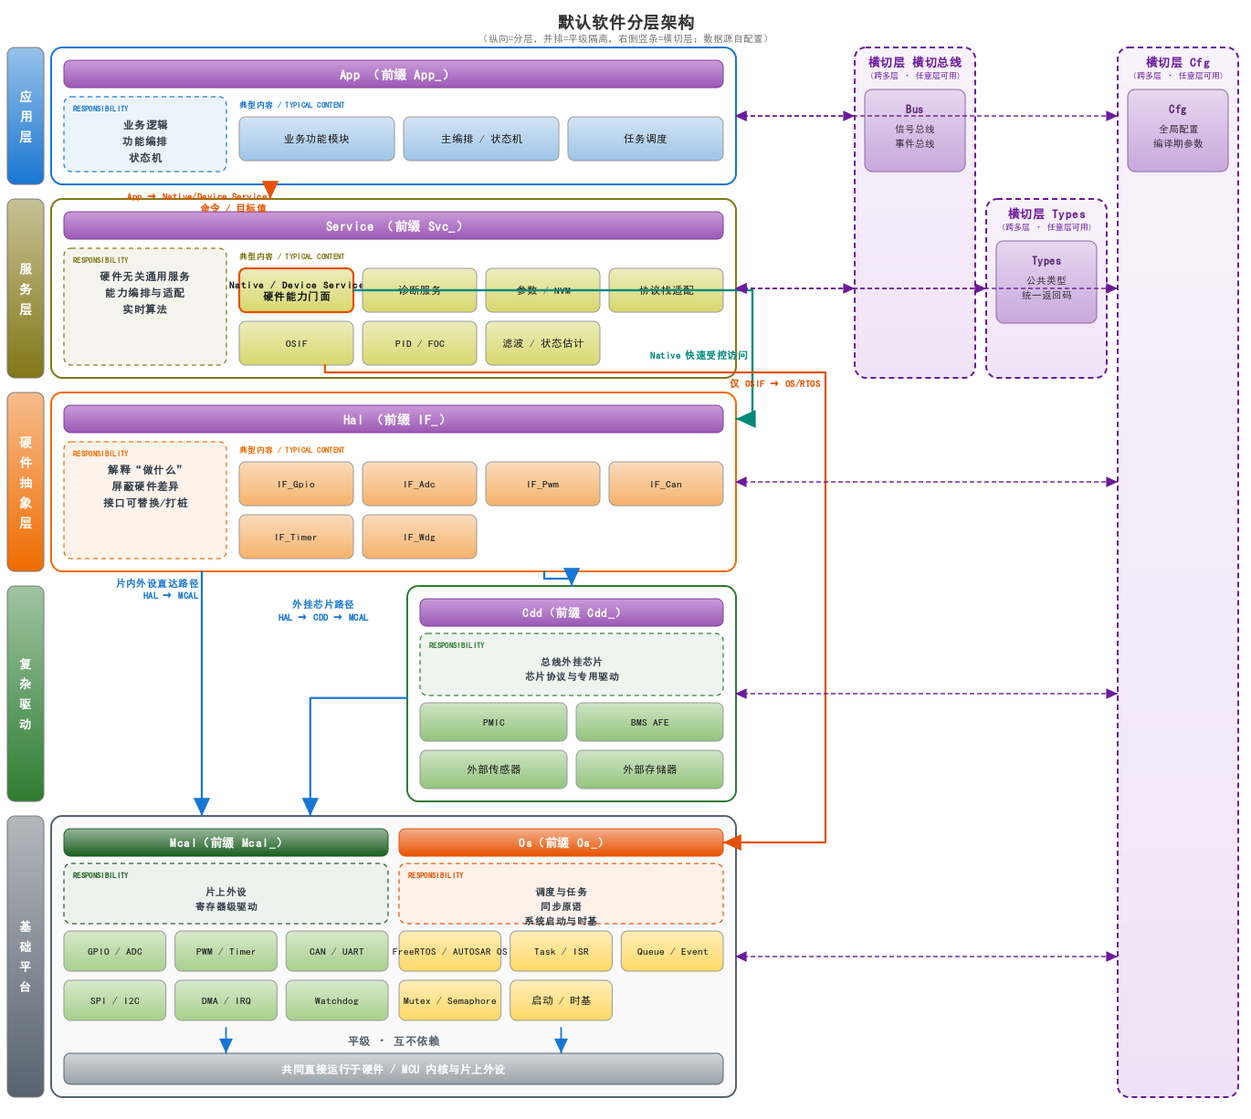
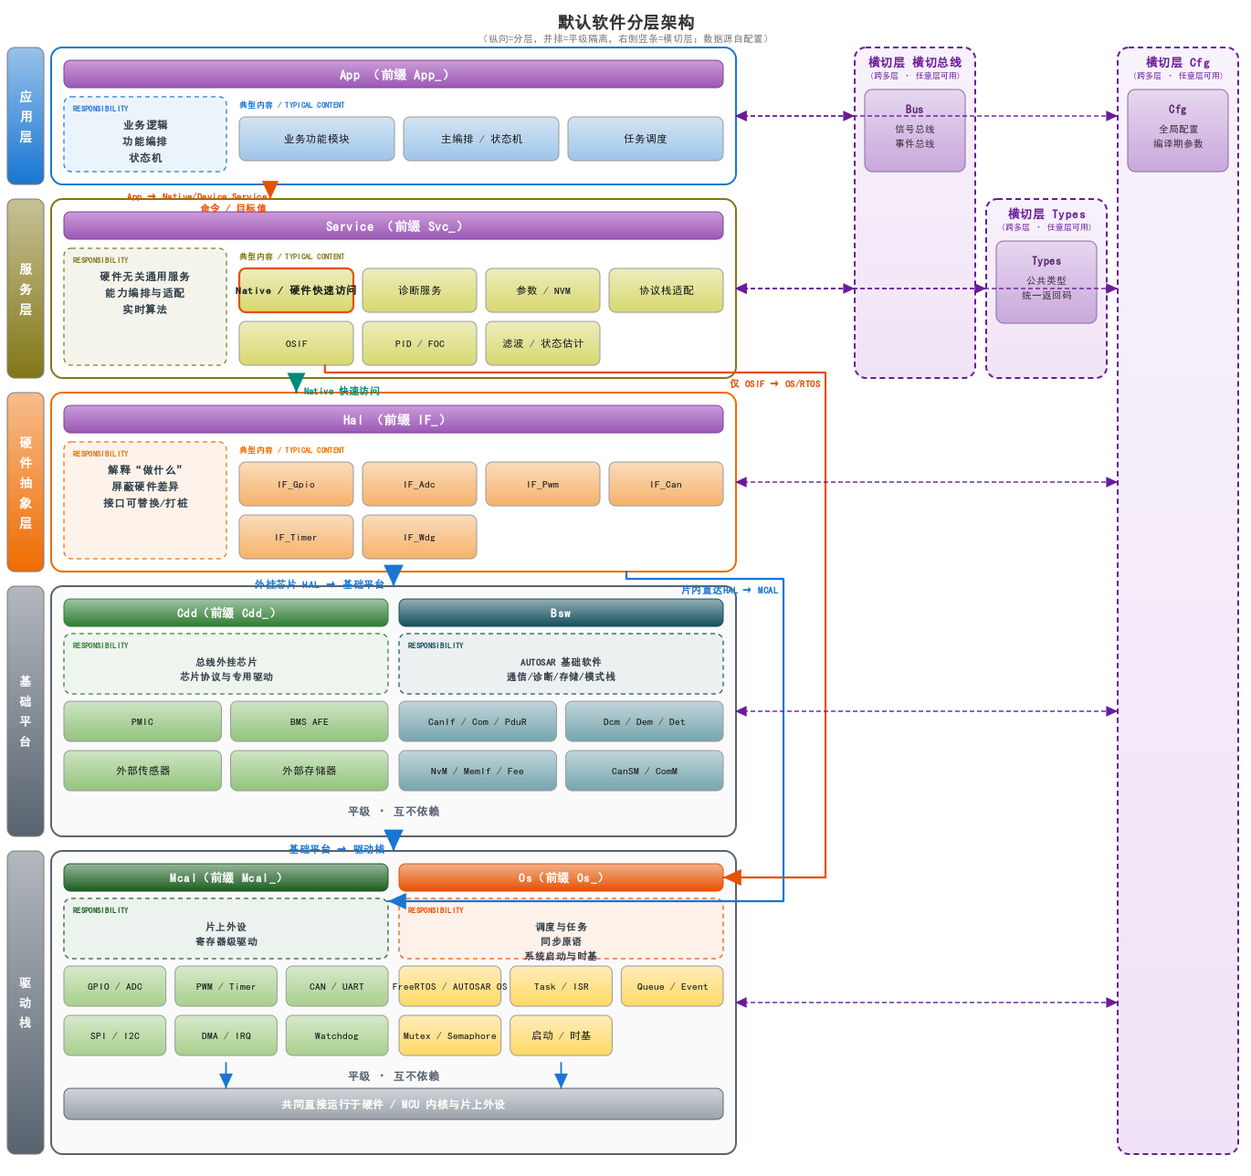
feat: add BSW driver stack as a peer branch to CDD
CDD 与 BSW 同层并列的两条可选驱动栈：新增 HAL→BSW→MCAL 路径，
BSW 与 CDD 平级、互不依赖（peer_groups ["Cdd","Bsw"]）。

- layers.example.json: 加 Bsw 层、peer_group、architecture_edges
  (Hal→Bsw, Bsw→Mcal)、空前缀、path_map/labels/colors；新增
  peer_group_hardware 开关；互换 CDD‖BSW(基础平台)/MCAL‖OS(驱动栈) 带名；
  HAL/驱动栈合并为单箭头(frame/none)，Native 改竖直下指(panel_down)。
- module_spec.example.json: 加 4 个 BSW 示例模块；Native 框改名。
- render_layer_diagram.py: 平级带硬件条按 peer_group_hardware 开关；
  新增 frame/none/panel_down 三种走线。
- 重生成 default-software-layered-model.svg/png。
- docs: layering-rules / SKILL / conformance-checklist / module-templates
  / diagram-guide 全部补 HAL→BSW→MCAL 与 CDD‖BSW 平级隔离。
- tests: test_cdd_bsw_layering.py 断言 PEER/UPWARD/合法路径。

check_layering.py 无需改代码（rank 模型自动收敛 peer group）。
门禁：12 单测通过；示例脚手架 169 文件、跨层+复用 0 违规。

diff --git a/skills/code-generator/scripts/render_layer_diagram.py b/skills/code-generator/scripts/render_layer_diagram.py
@@ -126,6 +126,7 @@ def main():
     cross = layers_cfg.get("cross_cutting", [])
     peer_groups = layers_cfg.get("peer_groups", [])
     peer_group_labels = layers_cfg.get("peer_group_labels", {})
+    peer_group_hardware = layers_cfg.get("peer_group_hardware", {})
     branch_layers = set(layers_cfg.get("branch_layers", []))
     architecture_edges = [tuple(edge) for edge in layers_cfg.get("architecture_edges", [])]
     edge_styles = layers_cfg.get("edge_styles", {})
@@ -195,6 +196,8 @@ def main():
     bounds = {}
     boxes = {}
     module_boxes = {}
+    frame_boxes = {}      # peer_group key -> 外框 box（整条平级带）
+    member_frame = {}     # 层 -> 它所属 peer_group key
     y = 52
 
     def blocks(layer, bx, by, bw, items, cols, base, h=44):
@@ -301,6 +304,8 @@ def main():
     def draw_peer_row(group, idx):
         nonlocal y
         y0 = y
+        group_key = "|".join(group)
+        on_hardware = peer_group_hardware.get(group_key, True)
         count = len(group)
         inner_gap = 12
         inner_x0 = PANEL_X + PAD
@@ -308,16 +313,16 @@ def main():
         module_rows = []
         for L in group:
             items = by_layer.get(L, []) or [{"name": "TBD", "display": "（待补充模块）"}]
-            cols = min(len(items), 3) or 1
+            cols = 2 if len(items) == 4 else (min(len(items), 3) or 1)
             rows = (len(items) + cols - 1) // cols
             module_rows.append((items, cols, rows))
         body_h = max(rows * 44 + (rows - 1) * BLK_GAP for _, _, rows in module_rows)
         resp_h = 66
         hardware_h = 34
-        total = PAD + TITLE_H + 8 + resp_h + 8 + body_h + 12 + 24 + hardware_h + PAD
+        hw_block = (24 + hardware_h) if on_hardware else 0
+        total = PAD + TITLE_H + 8 + resp_h + 8 + body_h + 12 + 24 + hw_block + PAD
 
         s.rect(PANEL_X, y0, PANEL_W, total, 12, "#fafafa", stroke="#58636f", sw=2)
-        group_key = "|".join(group)
         group_label = peer_group_labels.get(group_key, "基础软件平台")
         s.rect(8, y0, 40, total, 8, s.grad("#58636f"), stroke="#7a7a7a", sw=1)
         chars = list(group_label); ch_gap = min(22, (total - 16) / max(len(chars), 1))
@@ -341,16 +346,20 @@ def main():
 
         note_y = y0 + PAD + TITLE_H + 8 + resp_h + 8 + body_h + 12
         s.text(PANEL_X + PANEL_W / 2, note_y + 10, "平级 · 互不依赖", size=12, fill="#58636f", weight="bold")
-        hw_y = note_y + 24
-        s.rect(PANEL_X + PAD, hw_y, PANEL_W - 2 * PAD, hardware_h, 7,
-               s.grad("#9aa3aa"), stroke="#58636f", sw=1)
-        for gi, L in enumerate(group):
-            ix = inner_x0 + gi * (inner_w + inner_gap)
-            arrow_x = ix + inner_w / 2
-            s.polyline([(arrow_x, note_y - 4), (arrow_x, hw_y)],
-                       "#1976D2", marker="arrBlue", sw=1.8)
-        s.text(PANEL_X + PANEL_W / 2, hw_y + hardware_h / 2,
-               "共同直接运行于硬件 / MCU 内核与片上外设", size=12, fill="#ffffff", weight="bold")
+        if on_hardware:
+            hw_y = note_y + 24
+            s.rect(PANEL_X + PAD, hw_y, PANEL_W - 2 * PAD, hardware_h, 7,
+                   s.grad("#9aa3aa"), stroke="#58636f", sw=1)
+            for gi, L in enumerate(group):
+                ix = inner_x0 + gi * (inner_w + inner_gap)
+                arrow_x = ix + inner_w / 2
+                s.polyline([(arrow_x, note_y - 4), (arrow_x, hw_y)],
+                           "#1976D2", marker="arrBlue", sw=1.8)
+            s.text(PANEL_X + PANEL_W / 2, hw_y + hardware_h / 2,
+                   "共同直接运行于硬件 / MCU 内核与片上外设", size=12, fill="#ffffff", weight="bold")
+        frame_boxes[group_key] = (PANEL_X, y0, PANEL_X + PANEL_W, y0 + total)
+        for L in group:
+            member_frame[L] = group_key
         y = y0 + total + 16
 
     consumed_peers = set()
@@ -383,6 +392,19 @@ def main():
         route = cfg.get("route", "direct")
         label = cfg.get("label", "")
 
+        if route == "none":
+            continue  # 该架构边由同组的另一条边代表，图上不重复画
+        if route == "frame":
+            # 单箭头指向整条平级带外框（合并同组多条边），居中竖直
+            src_box = frame_boxes.get(member_frame.get(src), boxes[src])
+            dst_box = frame_boxes.get(member_frame.get(dst), boxes[dst])
+            cx = PANEL_X + PANEL_W / 2
+            s.polyline([(cx, src_box[3]), (cx, dst_box[1])], color, marker=marker, sw=2.6)
+            if label:
+                s.text(cx - 10, src_box[3] + 14, label, size=11, fill=color,
+                       anchor="end", weight="bold")
+            continue
+
         if route == "module_direct":
             start_x = sx0 + (sx1 - sx0) / 2
             target_x = tx0 + (tx1 - tx0) / 2
@@ -392,6 +414,15 @@ def main():
             if label:
                 s.text(start_x + 8, sy1 + 8, label,
                        size=10.5, fill=color, weight="bold")
+        elif route == "panel_down":
+            # 从源模块所在列、源层面板底边竖直向下指向目标层（不绕右侧、不穿同层卡片）
+            msx0, _, msx1, _ = module_boxes.get((src, cfg.get("source_module")), boxes[src])
+            start_x = (msx0 + msx1) / 2
+            src_bottom = boxes[src][3]
+            s.polyline([(start_x, src_bottom), (start_x, ty0)], color, marker=marker, sw=2.4)
+            if label:
+                s.text(start_x + 8, src_bottom + 14, label, size=10.5, fill=color,
+                       anchor="start", weight="bold")
         elif route == "side_direct":
             route_x = MAIN_RIGHT + 18
             start_y = sy0 + (sy1 - sy0) / 2
@@ -402,10 +433,10 @@ def main():
                 s.text(route_x - 6, (start_y + target_y) / 2, label,
                        size=10.5, fill=color, anchor="end", weight="bold")
         elif route == "right":
-            route_x = MAIN_RIGHT + EDGE_GUTTER - 20
+            route_x = MAIN_RIGHT + EDGE_GUTTER - 20 - float(cfg.get("gutter_offset", 0))
             start_x = sx0 + (sx1 - sx0) * float(cfg.get("start_ratio", 0.75))
             start_y = sy1
-            target_y = ty0 + TITLE_H / 2 + PAD
+            target_y = ty0 + TITLE_H / 2 + PAD + float(cfg.get("target_dy", 0))
             points = [(start_x, start_y), (start_x, start_y + 8), (route_x, start_y + 8),
                       (route_x, target_y),
                       (tx1, target_y)]

diff --git a/skills/code-generator/tests/test_cdd_bsw_layering.py b/skills/code-generator/tests/test_cdd_bsw_layering.py
@@ -1,0 +1,72 @@
+import json, os, subprocess, sys, tempfile, unittest
+
+ROOT = os.path.dirname(os.path.dirname(os.path.abspath(__file__)))
+CHECK = os.path.join(ROOT, "scripts", "check_layering.py")
+
+# CDD 与 BSW 同层并列的两条驱动栈：HAL→CDD→MCAL 与 HAL→BSW→MCAL，CDD↔BSW 平级互不依赖。
+LAYERS = {
+    "layers": ["App", "Service", "Hal", "Cdd", "Bsw", "Mcal", "Os"],
+    "peer_groups": [["Cdd", "Bsw"], ["Mcal", "Os"]],
+    "path_map": {
+        "Source/App": "App", "Source/Service": "Service", "Source/Hal": "Hal",
+        "Source/Cdd": "Cdd", "Source/Bsw": "Bsw", "Source/Mcal": "Mcal", "Source/Os": "Os",
+    },
+    "architecture_edges": [
+        ["App", "Service"], ["Service", "Hal"], ["Hal", "Mcal"],
+        ["Hal", "Cdd"], ["Hal", "Bsw"], ["Cdd", "Mcal"], ["Bsw", "Mcal"],
+    ],
+    "file_prefix": {},
+}
+
+
+def write(path, text):
+    os.makedirs(os.path.dirname(path), exist_ok=True)
+    with open(path, "w") as f:
+        f.write(text)
+
+
+class CddBswLayeringTest(unittest.TestCase):
+    def setUp(self):
+        self.d = tempfile.mkdtemp()
+        self.layers = os.path.join(self.d, "layers.json")
+        self.code = os.path.join(self.d, "code")
+        with open(self.layers, "w") as f:
+            json.dump(LAYERS, f)
+        # 各层放一个可被 include 解析的头文件
+        for rel in ("Source/Cdd/Pmic/Cdd_Pmic.h", "Source/Bsw/CanIf/CanIf.h",
+                    "Source/Mcal/Can/Mcal_Can.h", "Source/Hal/If/IF_Can.h"):
+            write(os.path.join(self.code, rel), "#ifndef H\n#define H\n#endif\n")
+
+    def _kinds(self, rel_c, c_body):
+        write(os.path.join(self.code, rel_c), c_body)
+        r = subprocess.run(
+            [sys.executable, CHECK, "--root", self.code, "--layers", self.layers, "--json"],
+            capture_output=True, text=True)
+        return [v["kind"] for v in json.loads(r.stdout)["violations"]], r.returncode
+
+    def test_bsw_including_cdd_is_peer_violation(self):
+        kinds, rc = self._kinds("Source/Bsw/CanIf/CanIf.c", '#include "Cdd_Pmic.h"\n')
+        self.assertIn("PEER", kinds)
+        self.assertEqual(rc, 1)
+
+    def test_cdd_including_bsw_is_peer_violation(self):
+        kinds, _ = self._kinds("Source/Cdd/Pmic/Cdd_Pmic.c", '#include "CanIf.h"\n')
+        self.assertIn("PEER", kinds)
+
+    def test_hal_including_bsw_is_legal(self):
+        kinds, rc = self._kinds("Source/Hal/Impl/IF_Can.c", '#include "CanIf.h"\n')
+        self.assertEqual(kinds, [])
+        self.assertEqual(rc, 0)
+
+    def test_bsw_including_mcal_is_legal(self):
+        kinds, rc = self._kinds("Source/Bsw/CanIf/CanIf.c", '#include "Mcal_Can.h"\n')
+        self.assertEqual(kinds, [])
+        self.assertEqual(rc, 0)
+
+    def test_bsw_including_hal_is_upward_violation(self):
+        kinds, _ = self._kinds("Source/Bsw/CanIf/CanIf.c", '#include "IF_Can.h"\n')
+        self.assertIn("UPWARD", kinds)
+
+
+if __name__ == "__main__":
+    unittest.main()

diff --git a/skills/code-generator/SKILL.md b/skills/code-generator/SKILL.md
@@ -59,11 +59,13 @@ description: >
   再受控调用 HAL；MCU 单进程项目默认使用普通 C 函数调用，不强制 IPC。
 - **OS 路径**：只有 Service 内的 `OSIF → OS/RTOS`。OSIF 封装任务、同步、队列和时基；Native/Device Service 不借此
   绕到 OS，架构图也不得把该依赖画成整个 Service 层指向 OS。
-- **硬件路径**：片内外设走 `HAL → MCAL`；外挂芯片走 `HAL → CDD → MCAL`。CDD 是可选分支，不是所有 HAL 调用的必经层。
+- **硬件路径**：片内外设走 `HAL → MCAL`；外挂芯片走 `HAL → CDD → MCAL`；AUTOSAR 基础软件走 `HAL → BSW → MCAL`。
+  CDD 与 BSW 是**同层并列的两条可选驱动栈**（同一 `peer_groups`、互不依赖），都不是所有 HAL 调用的必经层。
 - **基础平台**：MCAL 与 OS/RTOS 处于同一平级基础平台，二者共同直接运行于 MCU 内核/片上与板级硬件，
   默认 `MCAL ↛ OS`、`OS ↛ MCAL`。
 - **职责归属**：实时算法核（PID/FOC/滤波/状态估计）放 Service；硬件无关接口放 HAL；外挂芯片协议放 CDD；
-  寄存器级片上外设驱动放 MCAL；调度与同步原语放 OS/RTOS。Types、Bus、Cfg 作为横切能力，保持零业务逻辑和零硬件依赖。
+  AUTOSAR 通信/诊断/存储/模式栈放 BSW；寄存器级片上外设驱动放 MCAL；调度与同步原语放 OS/RTOS。
+  Types、Bus、Cfg 作为横切能力，保持零业务逻辑和零硬件依赖。
 - **冲突决策规则**：SAD 明确给出与上述基线不同的分层、职责归属或调用拓扑时，**不得自动采用 SAD，也不得自动忽略
   SAD**。先向用户展示差异摘要，并请用户明确二选一：`采用 SAD 指定架构` 或 `采用 skill 默认架构`。用户未决策前，
   停止生成 `layers.json`、`module_spec.json`、架构图和代码。决定采用 SAD 时，把差异写入项目 `layers.json` 的
@@ -86,7 +88,7 @@ description: >
    明确选择默认方案时采用上述默认架构基线。
    上层只能依赖**相邻下层或 `architecture_edges` 声明的结构边**，不向上依赖、不沿未声明路径跳层。
    默认控制路径是 `App → Native/Device Service → HAL`，OS 能力只经 `OSIF → OS/RTOS`；默认底层拓扑是片内外设 `HAL → MCAL`、外挂芯片
-   `HAL → CDD → MCAL`，CDD 是可选分支而非必经层；MCAL 与 OS/RTOS 默认处于同一基础平台级、共同直接建立在
+   `HAL → CDD → MCAL`、AUTOSAR 基础软件 `HAL → BSW → MCAL`，CDD 与 BSW 是同层并列的两条可选分支而非必经层；MCAL 与 OS/RTOS 默认处于同一基础平台级、共同直接建立在
    硬件之上且互不依赖；同层模块之间高内聚低耦合，靠接口/总线/回调解耦
    （上下层与同层的通信机制——SignalBus/回调/EventBus/接口——按产品场景选，见 `references/layering-rules.md` §4）；硬件相关全部收敛到抽象层
    接口（`.h`）之后，实现（`.c`）可替换、可打桩注入。规则与判定见 `references/layering-rules.md`。
@@ -127,8 +129,8 @@ python3 scripts/discover_inputs.py <项目根目录>
 
 ### 2.5 架构差异检测与用户决策门（有冲突时必须暂停）
 读取 SAD 的分层架构后，先与 `assets/default-software-layered-model.svg` 的默认基线比较，至少检查：
-层清单与层序、App 是否直连 HAL、Native/Device Service 是否存在、OS 是否仅经 OSIF 使用、CDD 是否为可选分支、
-HAL→MCAL / HAL→CDD→MCAL 路径、MCAL 与 OS/RTOS 是否平级隔离、算法与横切能力的归属。
+层清单与层序、App 是否直连 HAL、Native/Device Service 是否存在、OS 是否仅经 OSIF 使用、CDD/BSW 是否为可选分支、
+HAL→MCAL / HAL→CDD→MCAL / HAL→BSW→MCAL 路径、CDD 与 BSW 是否平级隔离、MCAL 与 OS/RTOS 是否平级隔离、算法与横切能力的归属。
 
 - **无架构差异**：记录“与默认基线一致”，继续第 3 步。
 - **SAD 未描述这些架构项**：记录“采用 skill 默认架构”，继续第 3 步。
@@ -157,9 +159,9 @@ HAL→MCAL / HAL→CDD→MCAL 路径、MCAL 与 OS/RTOS 是否平级隔离、算
   `assets/` 下有 `module_spec.example.json` / `layers.example.json` 可参照（**仅示例，按真实 SAD 改写**）。
   若第 2.5 步判定无差异、SAD 未描述架构，或用户明确选择 skill 默认架构，直接以
   `assets/layers.example.json` 和 `assets/module_spec.example.json` 为配置起点：
-  保留 `App → Native/Device Service → HAL`、`OSIF → OS/RTOS`、`HAL → MCAL`、`HAL → CDD → MCAL`；
-  用 `peer_groups:[["Mcal","Os"]]` 声明 MCAL 与 OS/RTOS 平级隔离。`["Service","Os"]` 只是静态层级检查所需的
-  合法结构边，模块依赖中只有 OSIF 可以实际使用该边。
+  保留 `App → Native/Device Service → HAL`、`OSIF → OS/RTOS`、`HAL → MCAL`、`HAL → CDD → MCAL`、`HAL → BSW → MCAL`；
+  用 `peer_groups:[["Cdd","Bsw"],["Mcal","Os"]]` 声明 CDD 与 BSW、MCAL 与 OS/RTOS 各自平级隔离。`["Service","Os"]`
+  只是静态层级检查所需的合法结构边，模块依赖中只有 OSIF 可以实际使用该边。
   若用户明确选择 SAD 指定架构，则按 SAD 生成两份配置，并附带第 2.5 步的架构决策记录；不要混入未获选择的默认拓扑。
 
 ### 3.5 出分层架构图（可视化校验，建议每次做）
@@ -181,7 +183,8 @@ python3 scripts/scaffold_tree.py --spec <module_spec.json> --layers <layers.json
 它为每个模块生成：`<Module>.h`（公开接口 + API 契约注释 + `@implements <需求ID>` 追溯标注 + 头文件保护）、
 `<Module>_Cfg.h`（编译期配置占位）、`<Module>.c`（`#include` 仅含**相邻下层/`architecture_edges` 接口 +
 同层 + 横切层**、函数桩 +
-`/* TBD: ... */` 体）。HAL 实现按设备归属选择 MCAL 或 CDD；CDD 仅用于外挂芯片并依赖 MCAL 总线接口。生成后
+`/* TBD: ... */` 体）。HAL 实现按设备归属选择 MCAL、CDD 或 BSW；CDD 用于外挂芯片、BSW 用于 AUTOSAR 基础软件栈，
+二者各自依赖 MCAL 总线/存储接口且互不依赖。生成后
 **人工/模型补全**头文件契约细节与目录 README，确保骨架可被编译器解析。
 目录布局原则与命名规范见 `references/layering-rules.md` 与 `references/module-templates.md`。
 

diff --git a/skills/code-generator/references/diagram-guide.md b/skills/code-generator/references/diagram-guide.md
@@ -13,16 +13,20 @@
    - 顶部**层标题条**（层名 + `（前缀 xxx_）`，前缀取自 `file_prefix`）；
    - 层内**模块卡片块**（渐变圆角块）；模块若带 `group` 字段则按组画虚线分组框（如 System/Connectivity）。
 
-2. **平级层必须并排**：`peer_groups` 中的不同层位于同一水平带，不能画成上下关系。默认
-   `["Mcal","Os"]` 应并排放入“基础软件平台”区域，底部共同连接 MCU 内核/硬件，并明确标注“平级、互不依赖”。
-   平级层仍保留各自标题和模块边界；图中不得绘制 MCAL 与 OS/RTOS 之间的依赖箭头。
+2. **平级层必须并排**：`peer_groups` 中的不同层位于同一水平带，不能画成上下关系，并明确标注“平级、互不依赖”。默认有两条平级带：
+   - `["Cdd","Bsw"]`：CDD 复杂驱动与 BSW 基础软件栈并排放入“基础平台”带（同层并列的两条可选驱动栈），运行在 MCAL
+     之上，**不画硬件底条**（`layers.json.peer_group_hardware` 该组为 `false`）。
+   - `["Mcal","Os"]`：MCAL 与 OS/RTOS 并排放入“驱动栈”带，底部**画硬件底条**共同连接 MCU 内核/硬件（该组为 `true`）。
+   平级层仍保留各自标题和模块边界；图中不得绘制 CDD↔BSW、MCAL↔OS/RTOS 之间的依赖箭头。
 
 3. **结构边必须可见**：`architecture_edges` 不能只用于代码门禁，架构图也要画出带方向的调用路径。默认模型至少显示：
    - `App → Native/Device Service → HAL`，其中 Native/Device Service 是上层快速、受控访问 HAL 的硬件能力门面；
    - `OSIF → OS/RTOS`，箭头必须从 OSIF 模块卡片发出，不得从整个 Service 层边框发出；
    - 片内外设 `HAL → MCAL`；
-   - 外挂芯片 `HAL → CDD → MCAL`。
-   `branch_layers`（默认 CDD）应缩进为可选分支，避免被误画成所有 HAL 调用的串行必经层。
+   - 外挂芯片 `HAL → CDD → MCAL`、AUTOSAR 基础软件 `HAL → BSW → MCAL`：CDD/BSW 在“基础平台”带里并排，可用一条
+     `HAL → 基础平台带` 与一条 `基础平台带 → 驱动栈带` 的合并箭头表达（`edge_styles` 的 `route:"frame"` 指向整条平级带，
+     同组另一条边用 `route:"none"` 不重复画），避免对 CDD、BSW 各画一条造成杂乱。
+   CDD/BSW 是可选分支，避免被误画成所有 HAL 调用的串行必经层。
 
 4. **横切层必须画成竖条，不占层序**：`layers.json` 的 `cross_cutting`（如 `Bus`/`Types`/`Cfg`）一律画成
    **右侧竖条**，竖向**只跨它的使用者层**，并用虚线箭头连到这些层。**严禁**把横切层塞成一个横向的普通层——

diff --git a/skills/code-generator/references/module-templates.md b/skills/code-generator/references/module-templates.md
@@ -80,7 +80,7 @@ IF_Status_t <Module>_DoSomething(uint16_t arg);
 ** @brief   <Module> 实现。所属层：<层名>。
 */
 #include "<Module>.h"
-/* 仅 #include 相邻下层或 architecture_edges 接口（如 Service→HAL、HAL→MCAL/CDD）、横切层。 */
+/* 仅 #include 相邻下层或 architecture_edges 接口（如 Service→HAL、HAL→MCAL/CDD/BSW）、横切层。 */
 #include "IF_Gpio.h"          /* 例：本模块经 HAL GPIO 接口操作硬件——不直够 MCAL */
 #include "SignalBus.h"        /* 例：同层解耦——读写信号而非互调他模块 */
 
@@ -119,9 +119,11 @@ IF_Status_t <Module>_DoSomething(uint16_t arg)
 - **脚手架模式**：函数体留 `/* TBD: ... */`，但**头文件契约要尽量完整**（从 SAD 组件 API 表抄）——契约是后续
   逐模块实现的合同。
 - **逐模块模式**：把 `TBD` 换成真实逻辑；状态机/时序严格对齐 SAD；同层协作只经总线/公开接口；硬件只经相邻下层
-  或 `architecture_edges` 接口。默认片内外设 `HAL→MCAL`，外挂芯片 `HAL→CDD→MCAL`。
-- **HAL 接口模块**额外遵循 `layering-rules.md` 的 If/Impl 拆分：`If/IF_*.h` 放契约，`Impl/IF_*.c` 调 MCAL/CDD 落地，
+  或 `architecture_edges` 接口。默认片内外设 `HAL→MCAL`，外挂芯片 `HAL→CDD→MCAL`，AUTOSAR 基础软件 `HAL→BSW→MCAL`。
+- **HAL 接口模块**额外遵循 `layering-rules.md` 的 If/Impl 拆分：`If/IF_*.h` 放契约，`Impl/IF_*.c` 调 MCAL/CDD/BSW 落地，
   便于换实现/打桩注入。
+- **驱动栈平级约束**：CDD 与 BSW 位于同一 `peer_groups`，默认互不 include；CDD 做外挂芯片专用驱动，BSW 做 AUTOSAR
+  通信/诊断/存储/模式栈，二者各自依赖 MCAL 总线/存储接口。
 - **基础平台约束**：MCAL 与 OS/RTOS 位于同一 `peer_groups`，默认互不 include；OS 原语由 Service/OSIF 使用，
   MCAL 专注寄存器级外设驱动。
 - **公共数据结构进头文件**：模块对上层暴露的 `typedef`/`enum`/`struct` 写在 `.h`（契约的一部分）；模块**私有**的

diff --git a/skills/code-generator/references/conformance-checklist.md b/skills/code-generator/references/conformance-checklist.md
@@ -12,13 +12,13 @@
 - [M] 架构决策记录至少包含 `architecture_source`、用户确认、日期、差异范围；全部生成产物与所选架构一致。
 - [A] 不存在**向上 include**：任何模块都不 `#include` 更高层头。（`check_layering.py` 0 违规）
 - [A] 不存在**未声明的跳层 include**：上层只够相邻下层、`architecture_edges`、同层和横切层
-  （`strict_adjacent=true` 时）；默认允许片内 `HAL→MCAL` 与外挂芯片 `HAL→CDD→MCAL`。
-- [A] 采用 skill 默认架构时，App 不直接依赖 HAL/CDD/MCAL；硬件访问经
+  （`strict_adjacent=true` 时）；默认允许片内 `HAL→MCAL`、外挂芯片 `HAL→CDD→MCAL` 与基础软件 `HAL→BSW→MCAL`。
+- [A] 采用 skill 默认架构时，App 不直接依赖 HAL/CDD/BSW/MCAL；硬件访问经
   `App→Native/Device Service→HAL`。
 - [A] `Service→Os` 的实际模块依赖仅来自 OSIF；Native/Device Service 和其它 Service 模块不得直接 include
   OS/RTOS 头文件，除非 SAD 明确批准并记录。
-- [A] `peer_groups` 中不同层之间不存在未声明依赖；默认 `MCAL→OS` 与 `OS→MCAL` 均为 0。
-- [M] 硬件相关代码全部收敛在抽象层（HAL/CDD）接口之后；上层无寄存器直操作、无芯片头直 include。
+- [A] `peer_groups` 中不同层之间不存在未声明依赖；默认 `CDD↔BSW`、`MCAL↔OS` 互相 include 均为 0。
+- [M] 硬件相关代码全部收敛在抽象层（HAL/CDD/BSW）接口之后；上层无寄存器直操作、无芯片头直 include。
 - [M] `layers.json` 的层序、平级组、横切层、`architecture_edges`、放行边与 SAD 分层架构图一致；MCAL 与 OS/RTOS
   在图中平级并共同连接硬件，结构边与架构偏离未混用。
 
